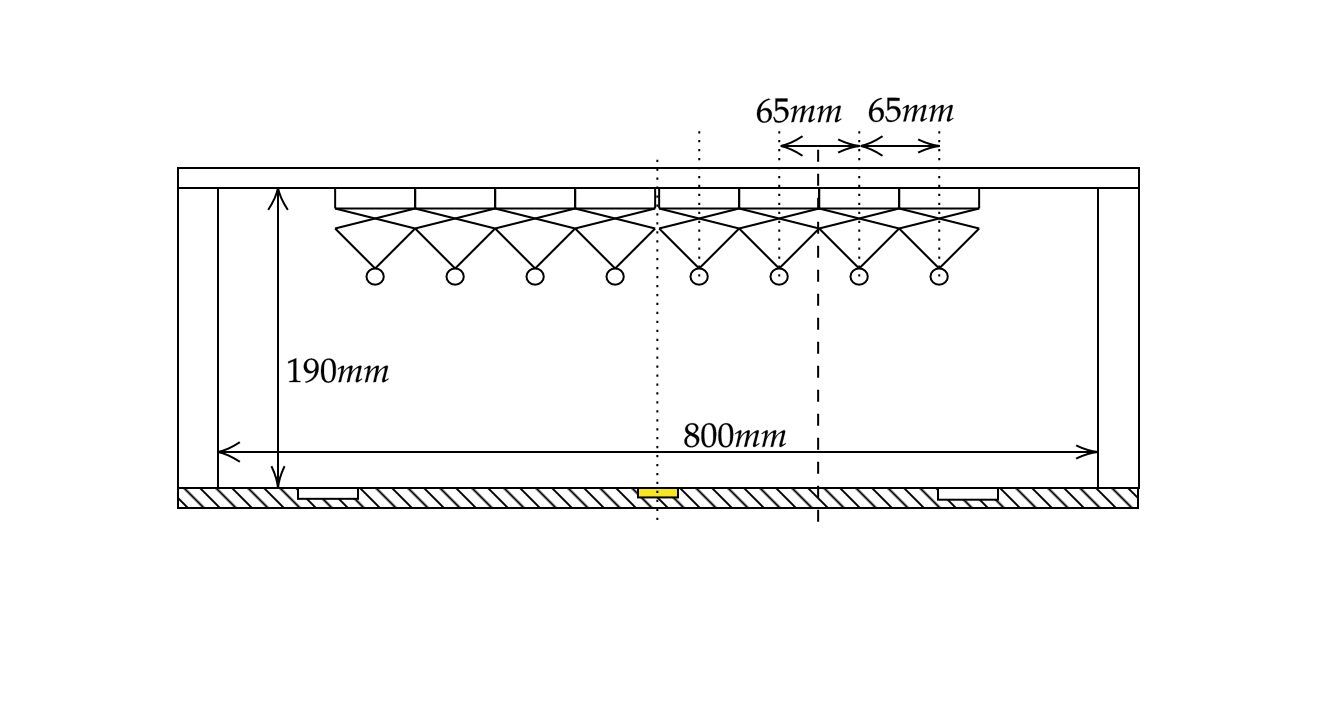
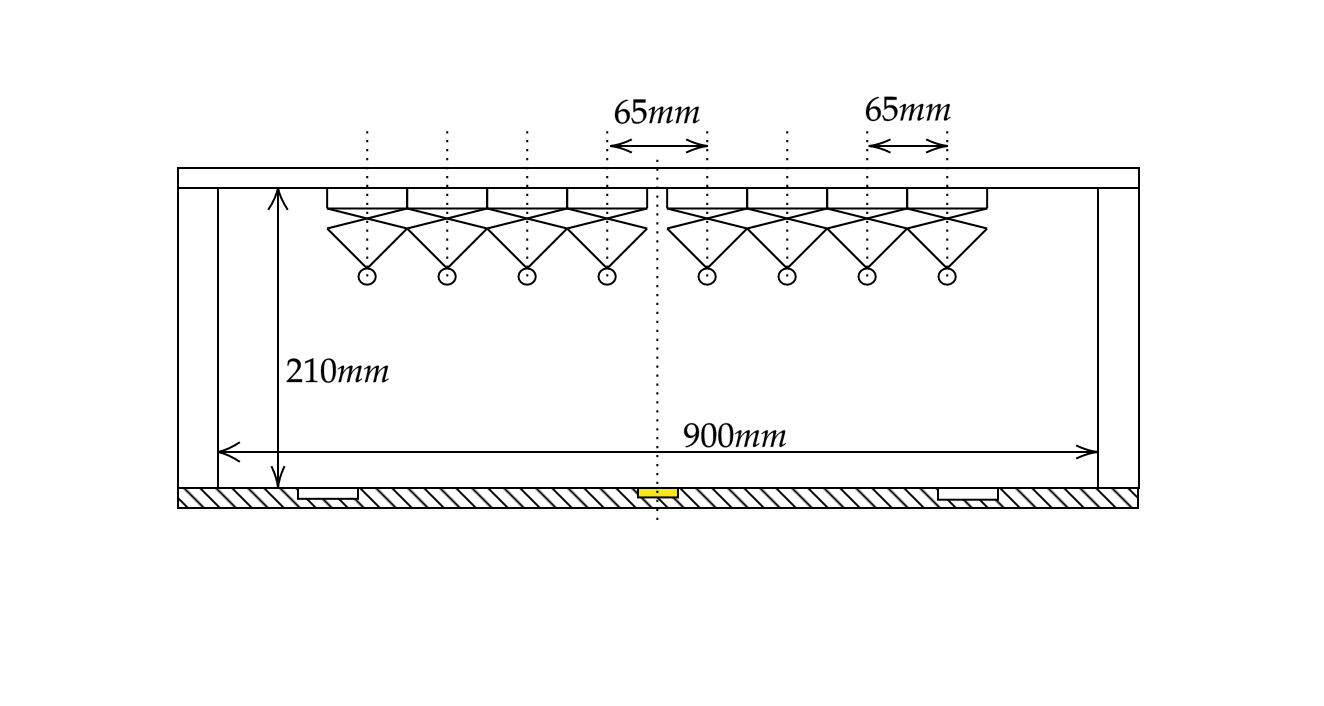
m

diff --git a/book/AIDO/50_megacity_setup/30_charging_module.md b/book/AIDO/50_megacity_setup/30_charging_module.md
@@ -18,7 +18,7 @@ In this list, $X$ will denote the number of charging rail tiles in a charging mo
 
 ### Assemble the wooden structure
 
-Assemble the wooden structure as in ([](#fig:assembled_wooden_struc)). This part may differ from our reference part. The important and neccessary specifications are: (i) the structure must be larger than one tile such that a road (with margins on both sides) may fit underneath and (ii) the space between the tile and the bottom part of the crossbar must be exactly 19cm.
+Assemble the wooden structure as in ([](#fig:assembled_wooden_struc)). This part may differ from our reference part. The important and neccessary specifications are: (i) the structure must be larger than one tile such that a road (with margins on both sides) may fit underneath and (ii) the space between the tile and the bottom part of the crossbar must be exactly 21cm.
 
 <div figure-id="fig:assembled_wooden_struc">
 <img src="images/assembled_wooden_struc.jpg" style="width: 80%"/>
